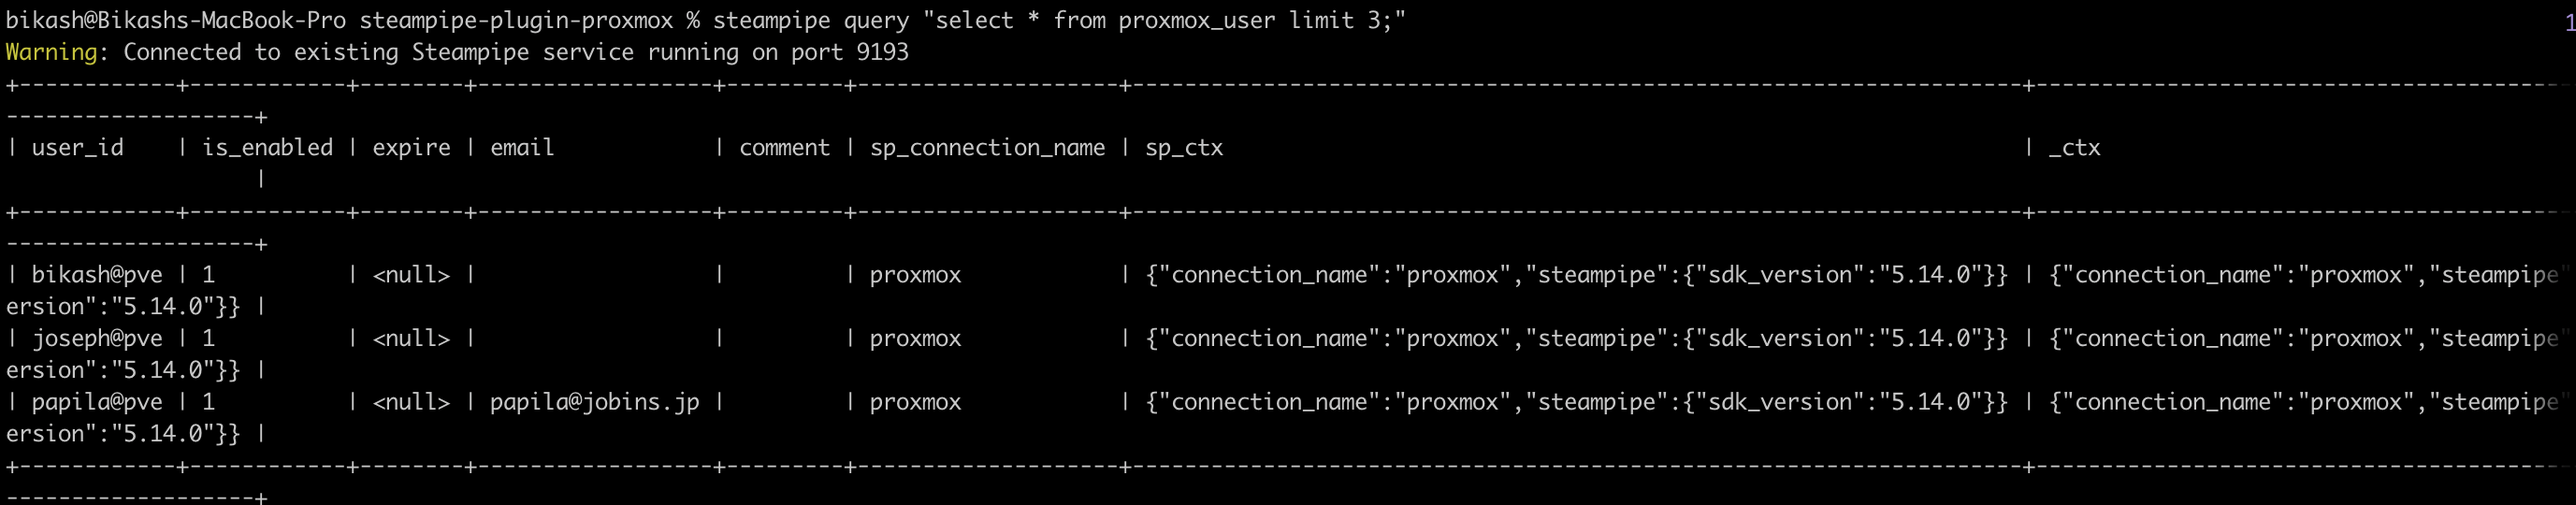
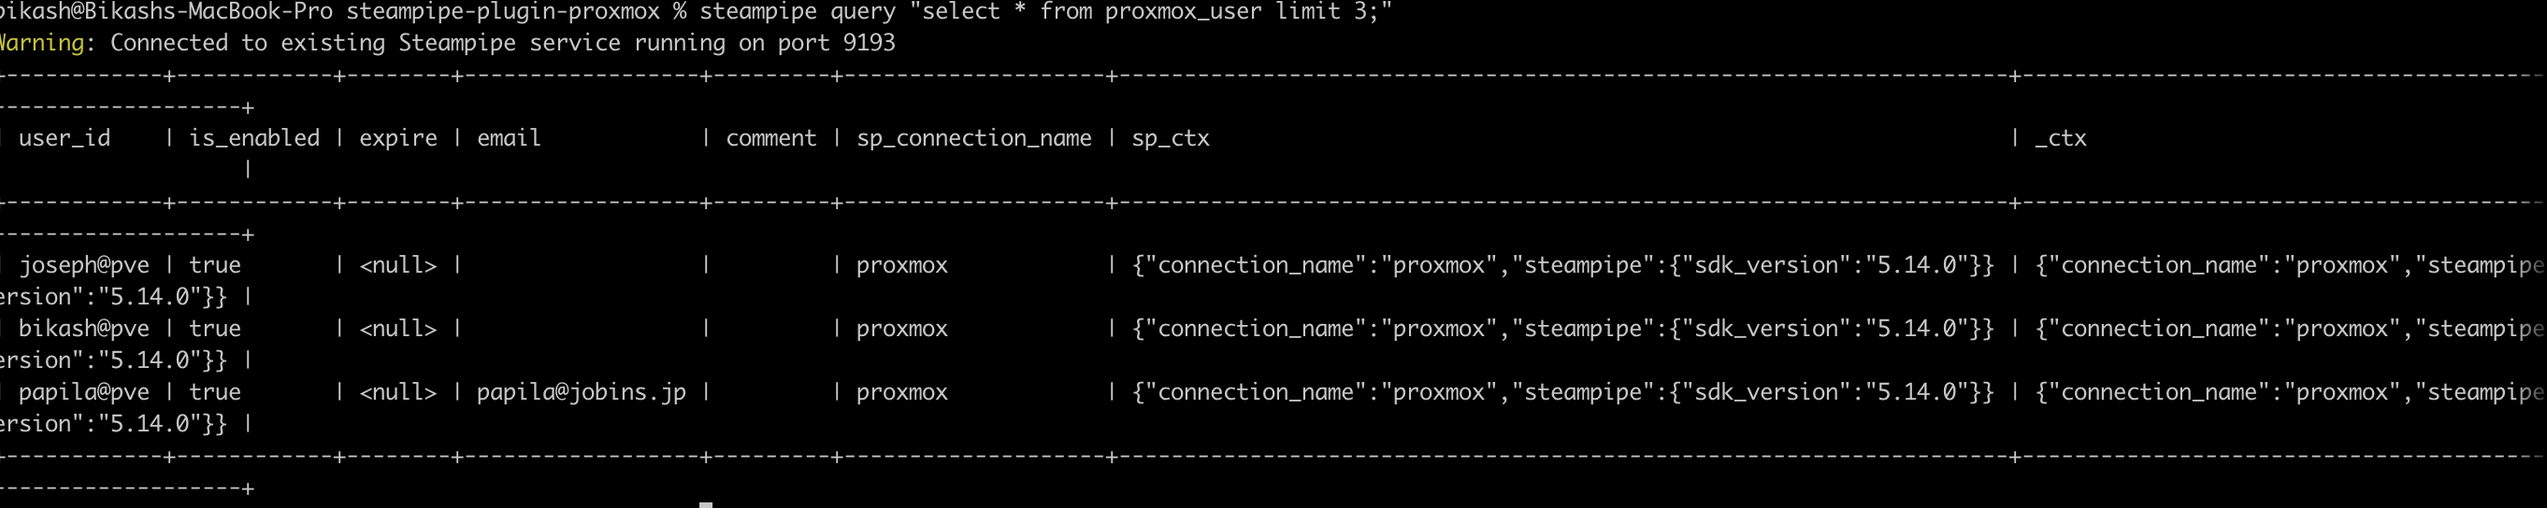
fixed Issues

diff --git a/proxmox/table_proxmox_user.go b/proxmox/table_proxmox_user.go
@@ -18,7 +18,7 @@ func tableProxmoxUser() *plugin.Table {
 		},
 		Columns: []*plugin.Column{
 			{Name: "user_id", Type: proto.ColumnType_STRING, Description: "User ID (e.g. user@pve).", Transform: transform.FromField("UserID")},
-			{Name: "is_enabled", Type: proto.ColumnType_INT, Description: "Whether the account is enabled.", Transform: transform.FromField("Enable")},
+			{Name: "is_enabled", Type: proto.ColumnType_BOOL, Description: "Whether the account is enabled.", Transform: transform.FromField("Enable").Transform(intToBool)},
 			{Name: "expire", Type: proto.ColumnType_TIMESTAMP, Description: "Account expiration (unix epoch, 0 = never).", Transform: transform.FromField("Expire").Transform(expireToTimestamp)},
 			{Name: "email", Type: proto.ColumnType_STRING, Description: "Email address.", Transform: transform.FromField("Email")},
 			{Name: "comment", Type: proto.ColumnType_STRING, Description: "Comment/description.", Transform: transform.FromField("Comment")},
@@ -56,11 +56,13 @@ func listProxmoxUsers(ctx context.Context, d *plugin.QueryData, h *plugin.Hydrat
 		plugin.Logger(ctx).Error("proxmox_user.listProxmoxUsers", "connect_error", err)
 		return nil, err
 	}
+
 	users, err := client.ListUsers()
 	if err != nil {
 		plugin.Logger(ctx).Error("proxmox_user.listProxmoxUsers", "api_error", err)
 		return nil, err
 	}
+
 	for _, u := range users {
 		d.StreamListItem(ctx, u)
 
@@ -70,5 +72,6 @@ func listProxmoxUsers(ctx context.Context, d *plugin.QueryData, h *plugin.Hydrat
 			return nil, nil
 		}
 	}
+
 	return nil, nil
 }

diff --git a/docs/tables/proxmox_user.md b/docs/tables/proxmox_user.md
@@ -1,6 +1,6 @@
 ---
 title: "Steampipe Table: proxmox_user - Query Proxmox VE Users using SQL"
-description: "Allows users to query Proxmox VE access-control users, including enabled state, expiration, realm, and contact details."
+description: "Allows users to query Proxmox VE access-control users, including is_enabledd state, expiration, realm, and contact details."
 folder: "User"
 ---
 
@@ -10,7 +10,7 @@ Retrieve information about users configured in your Proxmox VE cluster's access 
 
 ## Table Usage Guide
 
-The `proxmox_user` table in Steampipe provides you with information about users configured in Proxmox VE's access control system. This table allows you, as a systems administrator, to query user-specific details, including enabled/disabled state, account expiration, realm membership, and contact information. You can utilize this table to gather insights on access control, such as identifying disabled accounts, auditing which users have an expiration date set, or finding users missing an email address.
+The `proxmox_user` table in Steampipe provides you with information about users configured in Proxmox VE's access control system. This table allows you, as a systems administrator, to query user-specific details, including is_enabledd/disabled state, account expiration, realm membership, and contact information. You can utilize this table to gather insights on access control, such as identifying disabled accounts, auditing which users have an expiration date set, or finding users missing an email address.
 
 ## Examples
 
@@ -19,7 +19,7 @@ The `proxmox_user` table in Steampipe provides you with information about users 
 ```sql+postgres
 select
   user_id,
-  enable,
+  is_enabled,
   expire,
   comment
 from
@@ -29,7 +29,7 @@ from
 ```sql+sqlite
 select
   user_id,
-  enable,
+  is_enabled,
   expire,
   comment
 from
@@ -45,7 +45,7 @@ select
 from
   proxmox_user
 where
-  enable = 0;
+  not is_enabled;
 ```
 
 ```sql+sqlite
@@ -55,7 +55,7 @@ select
 from
   proxmox_user
 where
-  enable = 0;
+  not is_enabled;
 ```
 
 ### Find users with an expiration date set

diff --git a/README.md b/README.md
@@ -183,6 +183,10 @@ cd steampipe-plugin-proxmox
 **Build and install**
 
 
+```bash
+make
+```
+
 <!--
   This should build the plugin binary and copy it into
   ~/.steampipe/plugins/local/proxmox/steampipe-plugin-proxmox.plugin, i.e.

diff --git a/sample-query-results/README.md b/sample-query-results/README.md
@@ -77,7 +77,7 @@ from proxmox_task
 where end_time is null
 limit 3;
 ```
-![proxmox_task_recent](./upid_3.png))
+![proxmox_task_recent](./upid_3.png)
 
 ---
 
